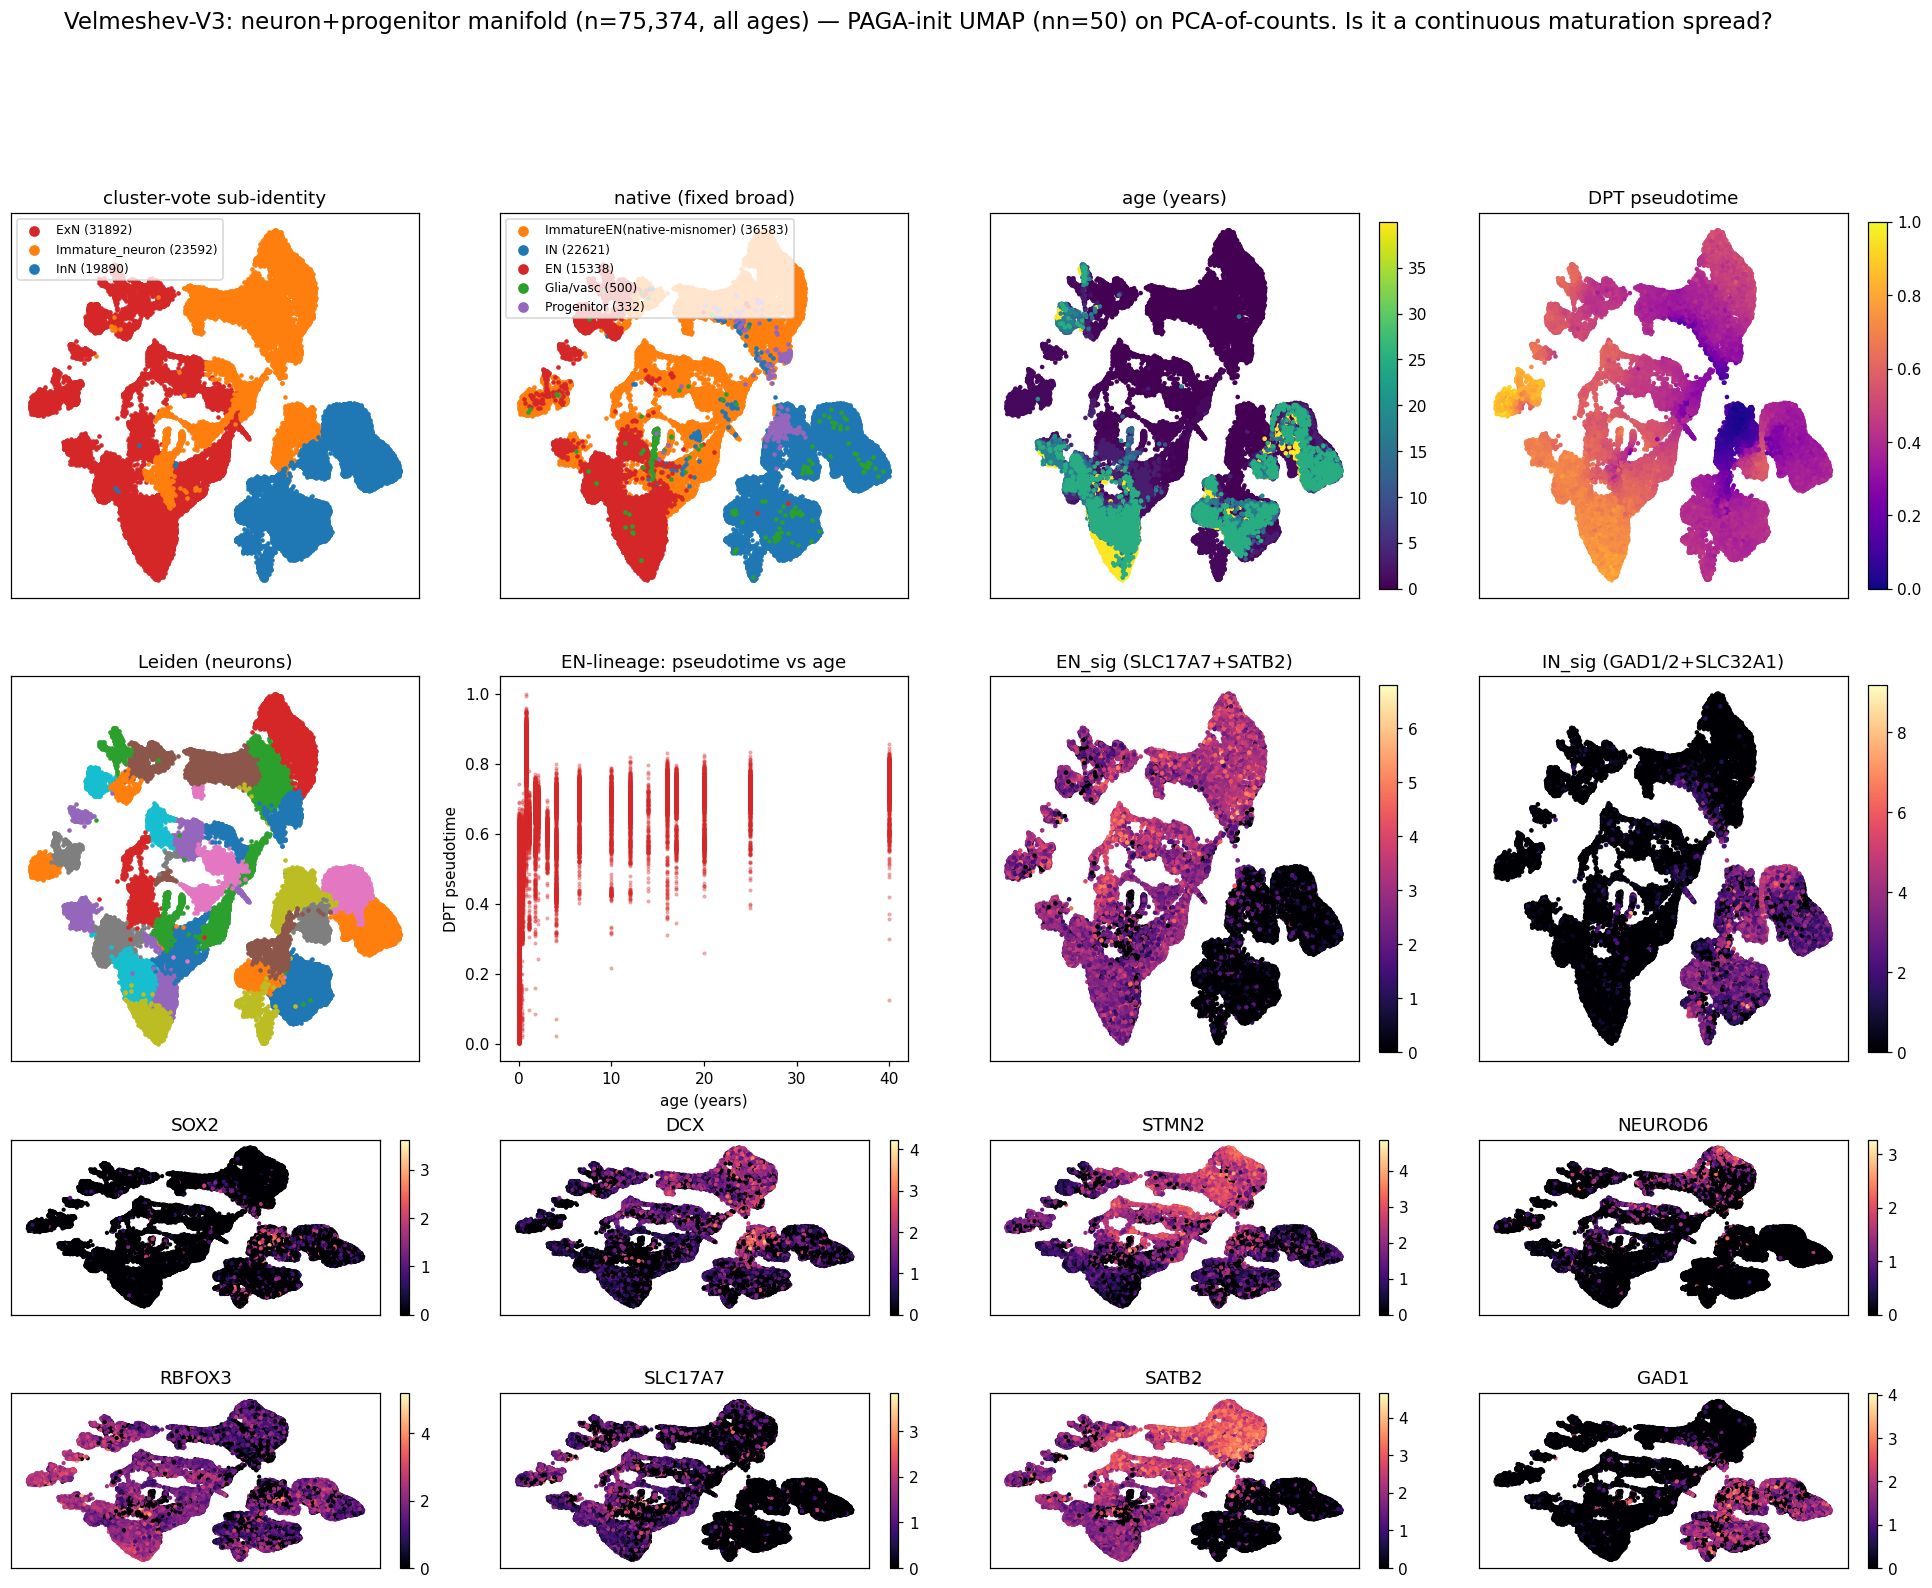
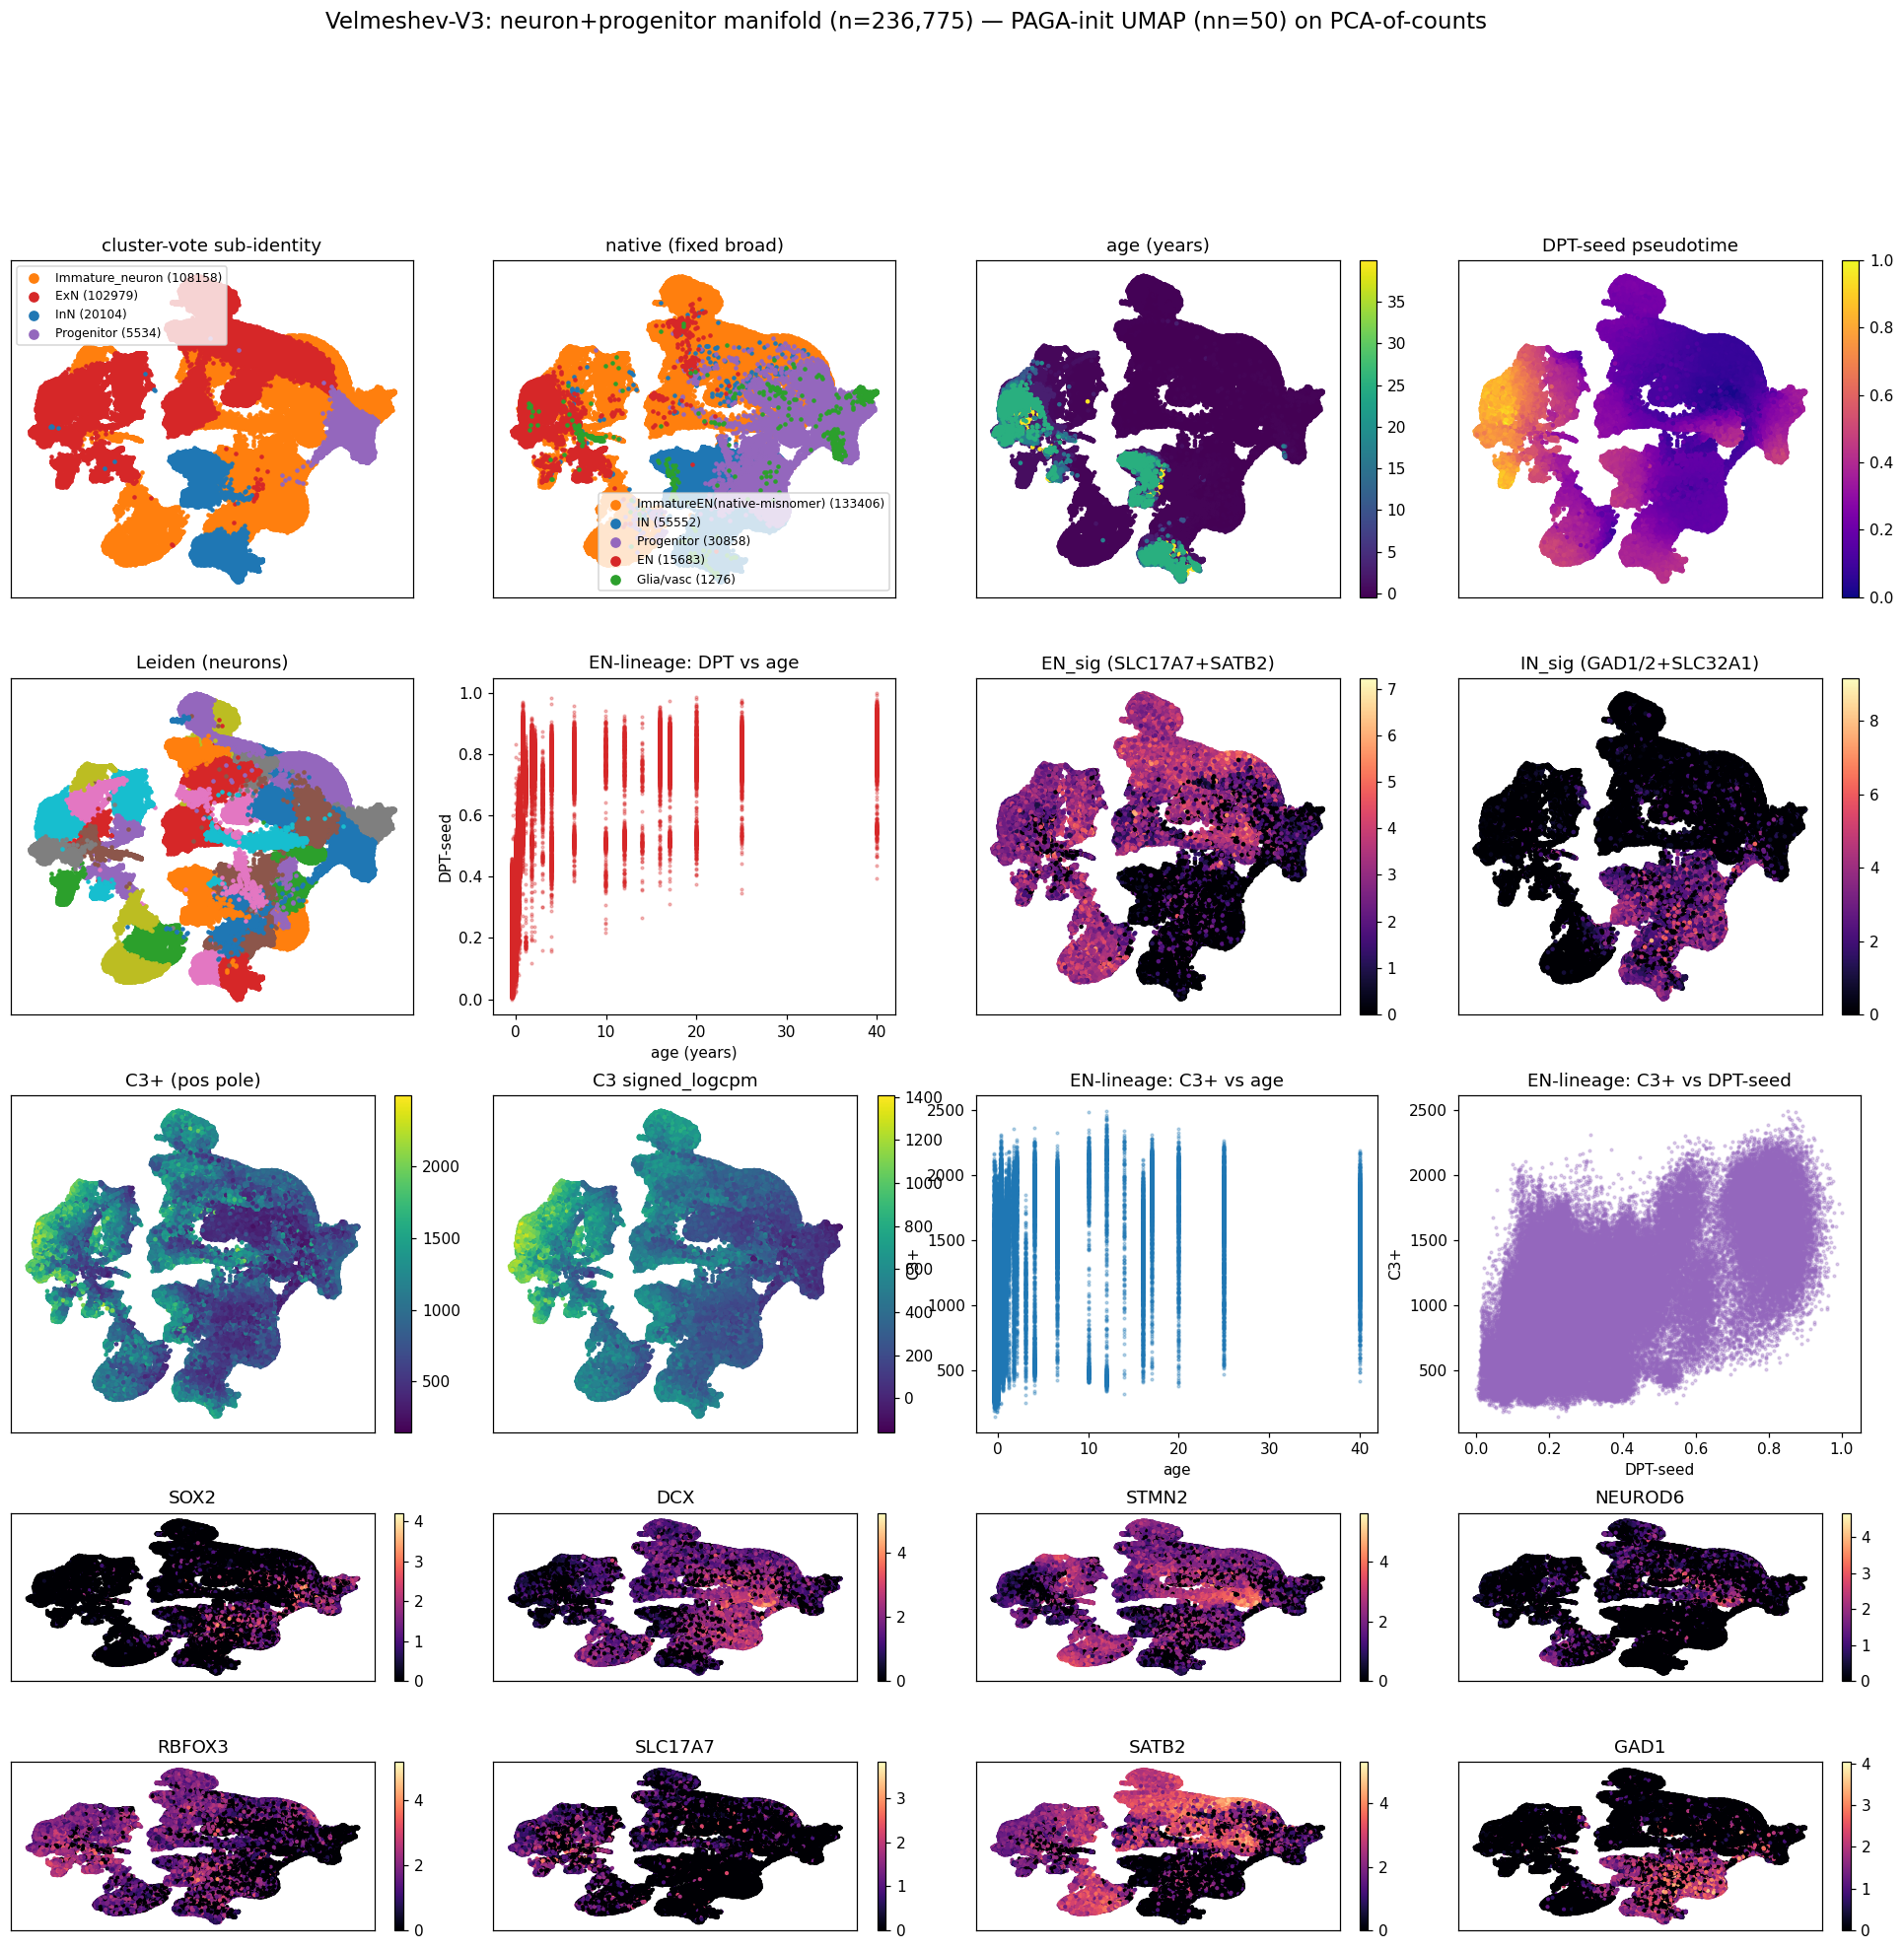
all-cells Velmeshev manifold (incl. prenatal) + C3 projection result
- age>=0 mask had dropped 177k/316k V3 cells incl. prenatal root; --all-cells keeps all 316k.
  Manifold now 236,775 neurons (108k immature + 5.5k progenitors); DPT~age rho=+0.84 postnatal
  / +0.66 full span -> pseudotime gradient is real, strengthened by prenatal data.
- KEY: per-cell C3 rises along EN maturation trajectory: C3+~DPT rho=+0.58 (0.68 postnatal),
  C3+~age rho=+0.47 (0.54 postnatal); within-lineage developmental signal, driven by
  immature->mature differentiation but continuing postnatally.
- Report: all-cells + C3 section with traj_c3 / traj_umaps figures + honest reconciliation
  with prior mature-only deflationary result.

diff --git a/output/c3_maturation/REPORT_young_umaps.md b/output/c3_maturation/REPORT_young_umaps.md
@@ -294,6 +294,52 @@ immature) as the maturation axis (cleanest age alignment), and the (method-agree
 probability** to define soft EN-lineage membership. Then project the depth-robust C3 score
 (`signed_logcpm`) along DPT and against age within pseudotime bins.
 
+## All-cells (incl. prenatal) manifold + C3 projection — the key result
+
+The earlier manifold used an `age ≥ 0` mask that silently dropped **177,186 of 315,903** Velmeshev-V3
+cells — including the **prenatal** cells (ages down to −0.45 = mid-gestation) that anchor the
+maturation *root*. Rebuilding with **all** V3 cells (`--all-cells`) gives a proper developmental
+manifold: **236,775 neurons kept (75%)**, now with **108,158 immature + 5,534 progenitor** cells (vs
+23k immature before) plus visible SOX2⁺ progenitors. The DPT gradient is **not** a fragmentation
+artefact — adding the prenatal pool *strengthened* it (EN-lineage DPT~age ρ=+0.84 postnatally; +0.66
+across the full prenatal→adult span). The "highest-pseudotime cells aren't the oldest donors"
+observation is expected biology: neuronal maturation largely **saturates after early childhood**, so
+mature (high-pt) neurons are present at every postnatal age.
+
+![Velmeshev all-cells manifold](s11_neuron_manifold_velmeshev_v3.png)
+![Velmeshev trajectory UMAPs (all cells)](traj_umaps_velmeshev_v3_allcells.png)
+![Velmeshev C3 vs age & pseudotime (all cells)](traj_c3_velmeshev_v3_allcells.png)
+
+Projecting the **per-cell C3 score** (computed sparse-from-counts: `C3_signed` = Σ w·log1p(CPM) over
+6,641 AHBA-C3 genes; `C3_pos` = the C3⁺ pole) onto the EN lineage (ExN + immature, n=211,137):
+
+| relationship | C3⁺ (pos pole) | C3 signed_logcpm |
+|---|---|---|
+| **C3 ~ age** (EN-lineage, incl. prenatal) | ρ=+0.47 | ρ=+0.57 |
+| **C3 ~ DPT pseudotime** (EN-lineage) | **ρ=+0.58** | **ρ=+0.63** |
+| C3 ~ age (postnatal only, n=55.8k) | ρ=+0.54 | — |
+| C3 ~ DPT pseudotime (postnatal only) | **ρ=+0.68** | — |
+
+all p≈0. **C3 increases monotonically along the EN maturation trajectory** (and with age), visible as a
+concordant C3/DPT/age gradient on the UMAP. This is a **within-EN-lineage developmental signal** — not
+neuron-vs-glia composition — so at the per-cell trajectory level it *revives* a maturation reading of
+C3 that the earlier mature-only ExN analyses had ruled out.
+
+**Honest caveat / reconciliation.** This is not in conflict with the earlier deflationary result
+([[project_c3_maturation]], FINAL_REPORT §0.7: within *already-mature* native ExN, C3⁺ has no age
+trend). The rise here is carried by the **immature→mature differentiation** that the full trajectory
+now spans (immature neurons have low C3⁺, mature high) — i.e. C3 tracks **maturation *state***, rising
+steeply through perinatal differentiation and then plateauing. The genuinely new, hypothesis-relevant
+piece is that C3⁺ keeps climbing **postnatally** (C3⁺~age ρ=0.54; C3⁺~pseudotime ρ=0.68 within
+postnatal cells), consistent with a continued post-differentiation maturation component — the next
+step is to test whether that postnatal climb is concentrated in the adolescent window and in
+upper-layer ExN, conditioning on differentiation state (pseudotime) to separate it from the perinatal
+jump.
+
+_(Methods note: DPT is the pseudotime here; Palantir/CellRank cross-validation at n=236k is pending a
+re-run — Palantir's auto multiscale-space and CellRank's PETSc-free fate solver needed scaling fixes;
+on the 75k manifold all three agreed, § above.)_
+
 ## Verdict & recommendation
 
 1. **No single marker cutoff defines young EN.** RBFOX3 over-counts (pan-neuronal), SLC17A7